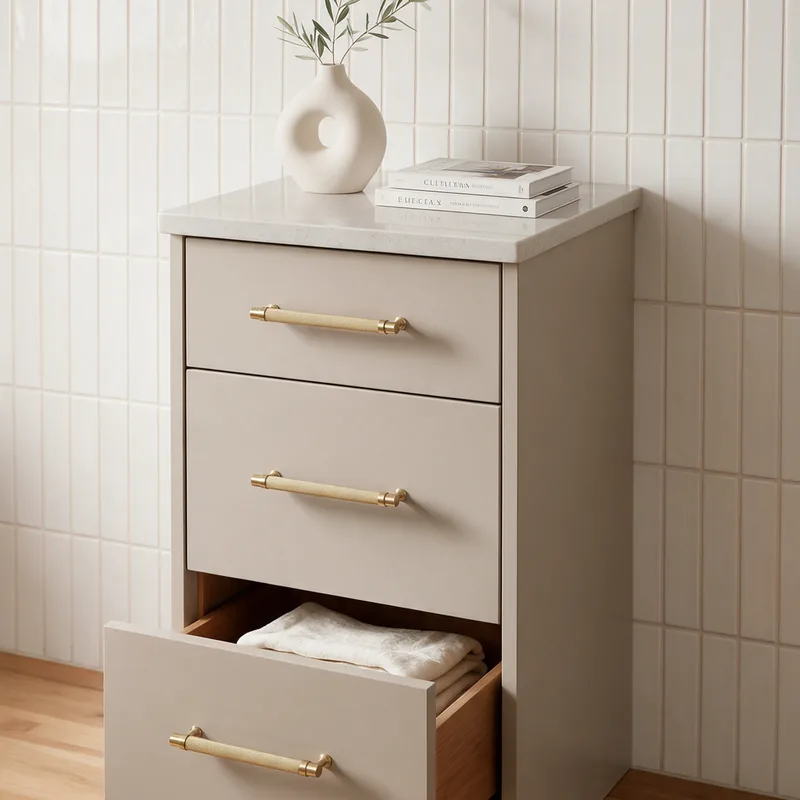
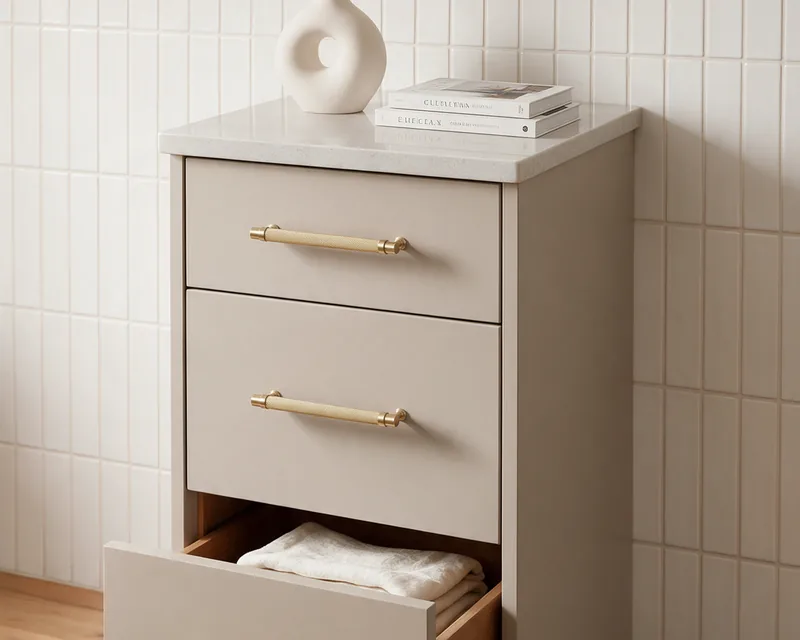
Home tiles: 5:4 photos, another 20% shorter

diff --git a/vibes/soul/sections/category-carousel/index.tsx b/vibes/soul/sections/category-carousel/index.tsx
@@ -64,7 +64,7 @@ export function CategoryCarousel({
                 className="group flex h-full flex-col overflow-hidden rounded-3xl border border-contrast-100 bg-white transition-[transform,box-shadow] duration-300 ease-out hover:-translate-y-1 hover:shadow-[0_24px_48px_-28px_rgb(0_0_0/0.3)] focus-visible:outline-0 focus-visible:ring-2 focus-visible:ring-primary"
                 href={category.href}
               >
-                <div className="relative aspect-square overflow-hidden bg-contrast-100">
+                <div className="relative aspect-[5/4] overflow-hidden bg-contrast-100">
                   {category.image ? (
                     <Image
                       alt={category.image.alt}
